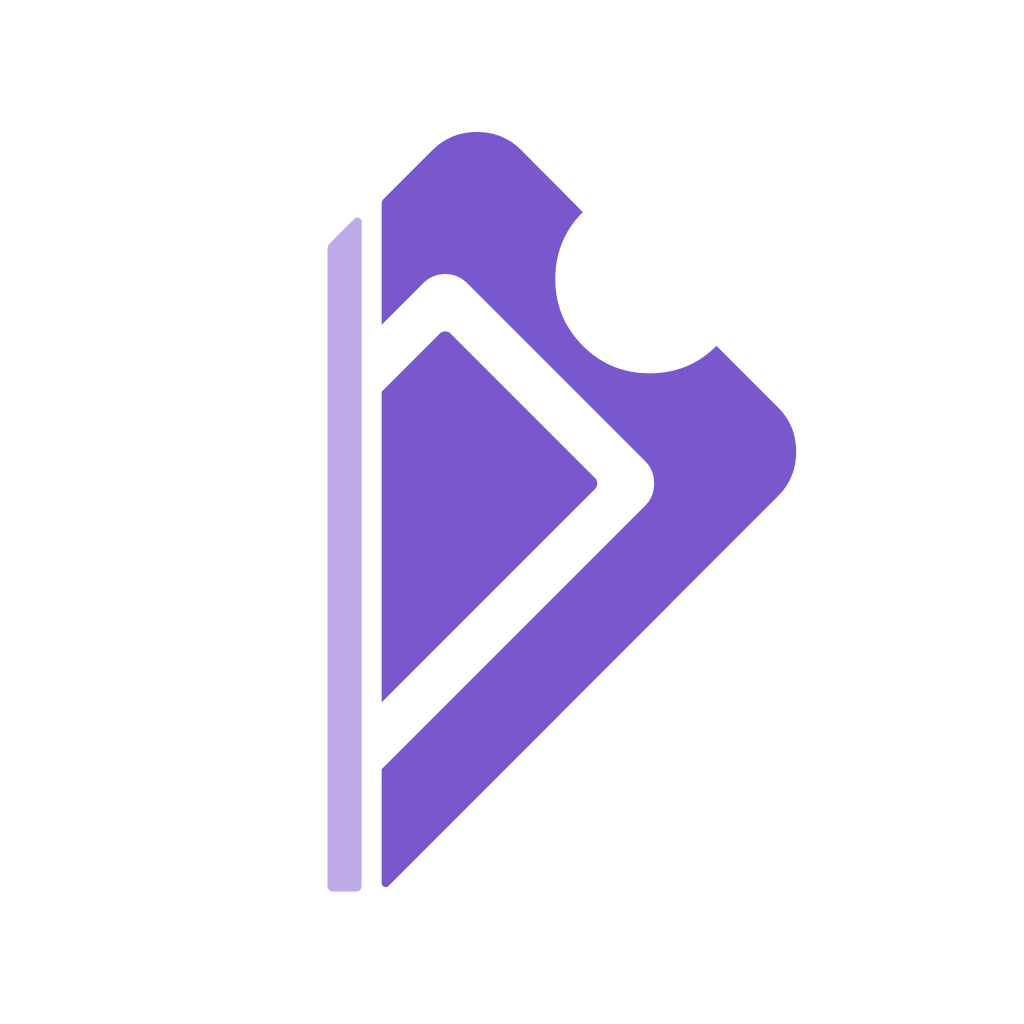
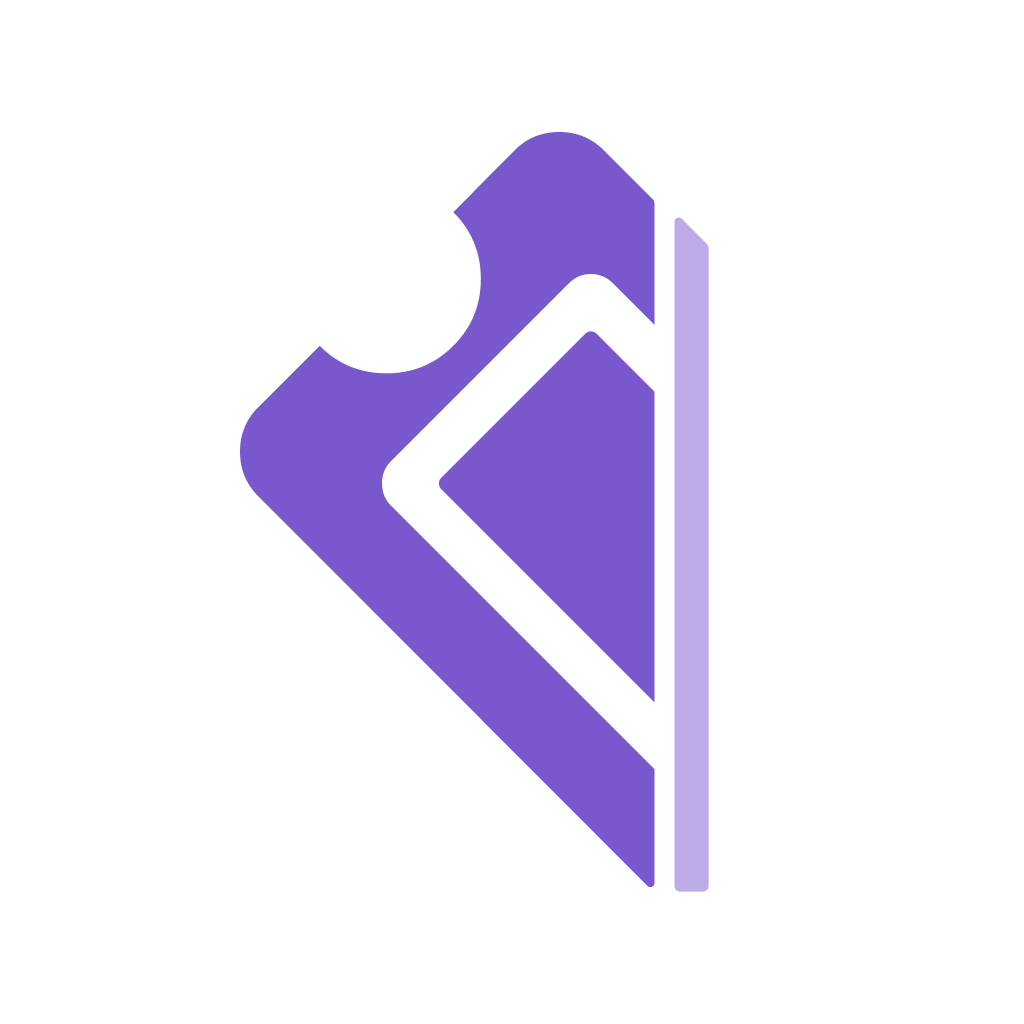
rebranded elteutikt to norda tickets, assets included

Changed region(s): [[0.2188, 0.125, 0.7812, 0.875]]

diff --git a/app/+html.tsx b/app/+html.tsx
@@ -30,29 +30,29 @@ export default function Root({ children }: { children: React.ReactNode }) {
         <style dangerouslySetInnerHTML={{ __html: responsiveBackground }} />
         {/* Add any additional <head> elements that you want globally available on web... */}
         {/* SEO Meta Tags */}
-        <title>ElTeuTikt</title>
-        <meta name="description" content="Digitaliza el proceso de venta y gestión de bebidas y consumiciones de tus eventos y fiestas con ElTeuTikt. La mejor experiencia de compra desde el móvil para el organizador y el asistente." />
-        <meta name="keywords" content="event tickets, ticketing, event management, ElTeuTikt, mobile ticketing, event drinks, consumable ticketing" />
-        <meta name="author" content="ElTeuTikt" />
+        <title>Norda Tickets</title>
+        <meta name="description" content="Digitize the sales process and management of tickets, drinks and consumables for your events and parties with Norda Tickets. The best mobile purchase experience for both the organizer and attendee." />
+        <meta name="keywords" content="event tickets, ticketing, event management, Norda Tickets, mobile ticketing, event drinks, consumable ticketing" />
+        <meta name="author" content="Norda Tickets" />
         
         {/* Open Graph Meta Tags */}
-        <meta property="og:title" content="ElTeuTikt" />
-        <meta property="og:description" content="Digitaliza el proceso de venta y gestión de bebidas y consumiciones de tus eventos y fiestas con ElTeuTikt. La mejor experiencia de compra desde el móvil para el organizador y el asistente." />
+        <meta property="og:title" content="Norda Tickets" />
+        <meta property="og:description" content="Digitize the sales process and management of tickets, drinks and consumables for your events and parties with Norda Tickets. The best mobile purchase experience for both the organizer and attendee." />
         <meta property="og:type" content="website" />
-        <meta property="og:url" content="https://www.elteutikt.com" />
+        <meta property="og:url" content="https://www.nordatickets.com" />
         <meta property="og:image" content="https://waniuunkeiqwqatzunof.supabase.co/storage/v1/object/public/assets/og-image.png" />
         
         {/* iOS Meta Tags */}
         <meta name="apple-mobile-web-app-capable" content="yes" />
         <meta name="apple-mobile-web-app-status-bar-style" content="black-translucent" />
-        <meta name="apple-mobile-web-app-title" content="ElTeuTikt" />
+        <meta name="apple-mobile-web-app-title" content="Norda Tickets" />
         
         {/* Social Media Links */}
-        <link rel="instagram" href="https://www.instagram.com/elteutikt" />
-        <link rel="linkedin" href="https://linkedin.com/company/elteutikt" />
+        <link rel="instagram" href="https://www.instagram.com/nordatickets" />
+        <link rel="linkedin" href="https://linkedin.com/company/nordatickets" />
         
         {/* Canonical URL */}
-        <link rel="canonical" href="https://www.elteutikt.com" />
+        <link rel="canonical" href="https://www.nordatickets.com" />
       </head>
       <body>{children}</body>
     </html>

diff --git a/assets/translations/ca.ts b/assets/translations/ca.ts
@@ -21,7 +21,7 @@ export const ca: { [key: string]: string } = {
   helpAndFaqs: 'Ajuda i preguntes freqüents',
   termsAndPrivacy: 'Termes i condicions',
   haveReadAndAcceptTermsAndPrivacy: 'He llegit i accepto els termes i condicions',
-  getInContactExplanation: 'Si has tingut algun problema utilitzant ElTeuTikt, et pots posar en contacte amb nosaltres des de la mateixa adreça de correu electrònic amb la que estàs registrat.',
+  getInContactExplanation: 'Si has tingut algun problema utilitzant Norda Tickets, et pots posar en contacte amb nosaltres des de la mateixa adreça de correu electrònic amb la que estàs registrat.',
   sendAnEmailTo: 'Envia un correu a',
   changeLanguage: 'Canviar idioma',
   noAccountQuestion: 'No tens un compte?',
@@ -93,14 +93,14 @@ export const ca: { [key: string]: string } = {
   ticketUsedTimeAgoExplanation: 'Aquest ticket ha estat utilitzat fa',
   yourOneTimeCode: "El teu codi per un sol ús",
   yourOneTimeCodeGreeting: "Hola! Aquest és el teu codi d'un sol ús:",
-  yourOneTimeCodeExplanation: "Utilitza'l per iniciar sessió a ElTeuTikt",
+  yourOneTimeCodeExplanation: "Utilitza'l per iniciar sessió a Norda Tickets",
   moreInfo: 'Més informació',
   birthdateConfig: 'Configuració de la data de naixement',
   noEventsInList: 'No hi ha esdeveniments a la teva llista',
   needYourBirthdateTitle: 'Necessitem la teva data de naixement!',
   save: 'Guardar',
   alreadyHaveSetBirthdateTitle: 'Ja tenim la teva data de naixement',
-  ifIncorrectGetInContactWithHelp: 'Si és incorrecta posa\'t en contacte amb help@elteutikt.com per rectificar-la.',
+  ifIncorrectGetInContactWithHelp: 'Si és incorrecta posa\'t en contacte amb help@nordatickets.com per rectificar-la.',
   accessControlTickets: 'Entrades',
   requiredToGetIntoTheEvent: 'Necessari per entrar a l\'esdeveniment',
   walletTicketAccessExplanation: "Utilitza'l per accedir a l'esdeveniment",

diff --git a/assets/translations/es.ts b/assets/translations/es.ts
@@ -21,7 +21,7 @@ export const es: { [key: string]: string } = {
   helpAndFaqs: 'Ayuda y preguntas frecuentes',
   termsAndPrivacy: 'Términos y condiciones',
   haveReadAndAcceptTermsAndPrivacy: 'He leído y acepto los términos y condiciones',
-  getInContactExplanation: 'Si has tenido algún problema utilizando ElTeuTikt, puedes ponerte en contacto con nosotros desde la misma dirección de correo electrónico con la que estás registrado.',
+  getInContactExplanation: 'Si has tenido algún problema utilizando Norda Tickets, puedes ponerte en contacto con nosotros desde la misma dirección de correo electrónico con la que estás registrado.',
   sendAnEmailTo: 'Envia un correo a',
   changeLanguage: 'Cambiar idioma',
   noAccountQuestion: '¿No tienes una cuenta?',
@@ -93,14 +93,14 @@ export const es: { [key: string]: string } = {
   ticketUsedTimeAgoExplanation: 'Este ticket ha sido utilizado hace',
   yourOneTimeCode: 'Tu codigo de un solo uso',
   yourOneTimeCodeGreeting: '¡Hola! Este es tu código de un solo uso:',
-  yourOneTimeCodeExplanation: 'Usa este código para iniciar sesión en ElTeuTikt',
+  yourOneTimeCodeExplanation: 'Usa este código para iniciar sesión en Norda Tickets',
   moreInfo: 'Más información',
   birthdateConfig: 'Configuración de fecha de nacimiento',
   noEventsInList: 'No hay eventos en tu lista',
   needYourBirthdateTitle: '¡Necesitamos tu fecha de nacimiento!',
   save: 'Guardar',
   alreadyHaveSetBirthdateTitle: 'Ya tenemos tu fecha de nacimiento',
-  ifIncorrectGetInContactWithHelp: 'Si es incorrecta ponte en contacto con help@elteutikt.com para rectificarla.',
+  ifIncorrectGetInContactWithHelp: 'Si es incorrecta ponte en contacto con help@nordatickets.com para rectificarla.',
   accessControlTickets: 'Entradas',
   requiredToGetIntoTheEvent: 'Necesario para entrar al evento',
   walletTicketAccessExplanation: 'Úsalo para acceder al evento',

diff --git a/assets/translations/en.ts b/assets/translations/en.ts
@@ -21,7 +21,7 @@ export const en: { [key: string]: string } = {
   helpAndFaqs: 'Help and FAQs',
   termsAndPrivacy: 'Terms and conditions',
   haveReadAndAcceptTermsAndPrivacy: 'I have read and accept the terms and conditions',
-  getInContactExplanation: 'If you\'ve had any problems using ElTeuTikt, you can contact us from the same email address with which you are registered.',
+  getInContactExplanation: 'If you\'ve had any problems using Norda TIckets, you can contact us from the same email address with which you are registered.',
   sendAnEmailTo: 'Send an email to',
   changeLanguage: 'Change language',
   noAccountQuestion: 'Don\'t have an account?',
@@ -93,14 +93,14 @@ export const en: { [key: string]: string } = {
   ticketUsedTimeAgoExplanation: 'Time passed since ticket used',
   yourOneTimeCode: 'Your one-time code',
   yourOneTimeCodeGreeting: 'Hello! This is your one-time code:',
-  yourOneTimeCodeExplanation: 'Use this code to log into ElTeuTikt',
+  yourOneTimeCodeExplanation: 'Use this code to log into Norda TIckets',
   moreInfo: 'More info',
   birthdateConfig: 'Birthdate settings',
   noEventsInList: 'No events in your list',
   needYourBirthdateTitle: 'We need your birthdate!',
   save: 'Save',
   alreadyHaveSetBirthdateTitle: 'We already have your birthdate',
-  ifIncorrectGetInContactWithHelp: 'If this is incorrect, get in contact with help@elteutikt.com to rectify it.',
+  ifIncorrectGetInContactWithHelp: 'If this is incorrect, get in contact with help@nordatickets.com to rectify it.',
   accessControlTickets: 'Access tickets',
   requiredToGetIntoTheEvent: 'Required to get into the event',
   walletTicketAccessExplanation: 'Use it to access the event',

diff --git a/components/auth/Welcome.tsx b/components/auth/Welcome.tsx
@@ -2,8 +2,8 @@ import { StyleSheet, Pressable, Platform } from "react-native";
 import { router } from "expo-router";
 import Colors from "../../constants/Colors";
 import { View, Text} from "../../components/Themed";
-import TiktDark from '../../assets/svgs/tiktdark.svg';
-import TiktLight from '../../assets/svgs/tiktlight.svg';
+import NordaDark from '../../assets/svgs/nordadark.svg';
+import NordaLight from '../../assets/svgs/nordalight.svg';
 import { useSupabase } from "../../context/SupabaseProvider";
 import { FeatherIcon } from "../../components/CustomIcons";
 import { Picker } from "@react-native-picker/picker";
@@ -39,7 +39,7 @@ export default function Welcome({ showLocaleSelector = true, additionalInfoText 
       <View style={{ alignItems: 'center', justifyContent: 'center' }}>
         <View style={[styles.blob, { opacity: theme === 'dark' ? .25 : .45 }]}><PurpleBlob width={280} height={280} /></View>
         <Animated.View style={{ alignItems: 'center', justifyContent: 'center' }} entering={FadeIn.duration(250).easing(Easing.inOut(Easing.quad)).reduceMotion(ReduceMotion.Never)}>
-          { theme === 'dark' ? <TiktDark width={165} height={165} /> : <TiktLight width={165} height={165} /> }
+          { theme === 'dark' ? <NordaDark width={165} height={165} /> : <NordaLight width={165} height={165} /> }
         </Animated.View>
       </View>
       <Animated.View entering={FadeIn.duration(350).easing(Easing.inOut(Easing.quad)).reduceMotion(ReduceMotion.Never)} style={styles.buttonsContainer}>

diff --git a/app/(screens)/profile/receipts/refund/[id].tsx b/app/(screens)/profile/receipts/refund/[id].tsx
@@ -2,7 +2,7 @@ import { FlatList, StyleSheet, Dimensions, ActivityIndicator, Platform, Pressabl
 import { View, Text } from '../../../../../components/Themed';
 import { WalletTicket } from "../../../../../types/supabaseplain";
 import { router, useLocalSearchParams } from 'expo-router';
-import TiktLight from '../../../../../assets/svgs/tiktlight.svg';
+import NordaLight from '../../../../../assets/svgs/nordalight.svg';
 import { useCallback, useEffect, useState } from 'react';
 import { supabase } from '../../../../../supabase';
 import { useSupabase } from '../../../../../context/SupabaseProvider';
@@ -112,7 +112,7 @@ export default function RefundReceiptDetailScreen() {
     <View style={[styles.folio, {width: vwpDimension}]}>
       { pageIndex === 0 ? <>
         <View style={styles.titleRow}>
-          <TiktLight width={vwpDimension/6} height={vwpDimension/12} />
+          <NordaLight width={vwpDimension/6} height={vwpDimension/12} />
           <Text style={[styles.receiptText, {fontSize: vwpDimension/24}]}>{ i18n?.t('refundInvoice') }</Text>
         </View>
         <View style={styles.generalInfoRow}>

diff --git a/app/(screens)/profile/receipts/[id].tsx b/app/(screens)/profile/receipts/[id].tsx
@@ -2,7 +2,7 @@ import { FlatList, StyleSheet, Dimensions, ActivityIndicator, Platform, Pressabl
 import { View, Text } from '../../../../components/Themed';
 import { WalletTicket } from "../../../../types/supabaseplain";
 import { useLocalSearchParams } from 'expo-router';
-import TiktLight from '../../../../assets/svgs/tiktlight.svg';
+import NordaLight from '../../../../assets/svgs/nordalight.svg';
 import { useCallback, useEffect, useState } from 'react';
 import { supabase } from '../../../../supabase';
 import { useSupabase } from '../../../../context/SupabaseProvider';
@@ -109,7 +109,7 @@ export default function ReceiptDetailScreen() {
     <View style={[styles.folio, {width: vwpDimension}]}>
       { pageIndex === 0 ? <>
         <View style={styles.titleRow}>
-          <TiktLight width={vwpDimension/6} height={vwpDimension/12} />
+          <NordaLight width={vwpDimension/6} height={vwpDimension/12} />
           <Text style={[styles.receiptText, {fontSize: vwpDimension/24}]}>{ i18n?.t('simplifiedInvoice') }</Text>
         </View>
         <View style={styles.generalInfoRow}>

diff --git a/app/(screens)/profile/help/index.tsx b/app/(screens)/profile/help/index.tsx
@@ -42,7 +42,7 @@ export default function HelpAndTermsScreen() {
       <Text style={styles.title}>{ i18n?.t('helpAndFaqs') }</Text>
       <View style={styles.wrapper}>
         <Text>{ i18n?.t('getInContactExplanation') }</Text>
-        <View style={{display: 'flex', flexDirection: 'row'}}><Text>{ i18n?.t('sendAnEmailTo') } </Text><Text style={{textDecorationLine: 'underline'}}>help@elteutikt.com</Text></View>
+        <View style={{display: 'flex', flexDirection: 'row'}}><Text>{ i18n?.t('sendAnEmailTo') } </Text><Text style={{textDecorationLine: 'underline'}}>help@nordatickets.com</Text></View>
         <View style={[styles.separator, {backgroundColor: Colors[theme].separatorBackgroundColor}]} />
         <Text style={styles.subtitle}>FAQs:</Text>
         { !faqs ? 

diff --git a/app/_layout.tsx b/app/_layout.tsx
@@ -59,7 +59,7 @@ function RootLayoutNav() {
       <ThemeProvider value={colorScheme === 'dark' ? DarkTheme : DefaultTheme}>
         <Stack screenOptions={{ headerShown: false }}>
           <Stack.Screen name="(tabs)" />
-          <Stack.Screen name="(auth)/welcome" options={{ title: 'ElTeuTikt' }} />
+          <Stack.Screen name="(auth)/welcome" options={{ title: 'Norda Tickets' }} />
           <Stack.Screen name="(auth)/terms" options={{ title: i18n?.t('termsAndPrivacy') }} />
           <Stack.Screen name="(screens)" />
         </Stack>

diff --git a/app/(screens)/event/paymentModal/index.tsx b/app/(screens)/event/paymentModal/index.tsx
@@ -59,7 +59,7 @@ export default function PaymentModalScreen() {
               <script>
                 document.forms[0].addEventListener('submit', () => {
                   setTimeout(() => {
-                    window.parent.postMessage('close', 'https://elteutikt.com');
+                    window.parent.postMessage('close', 'https://nordatickets.com');
                   }, 1000);
                 });
               </script>
